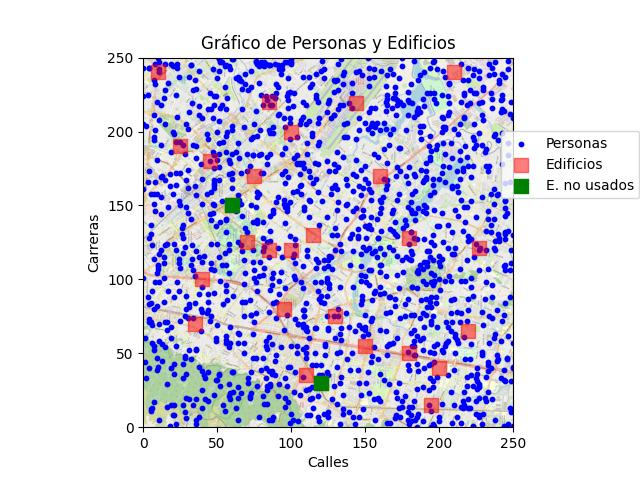
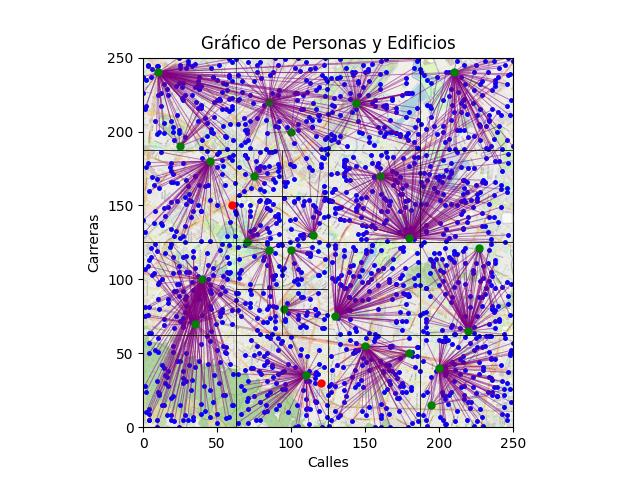
organizacion grafico

diff --git a/generacionEntrada.py b/generacionEntrada.py
@@ -1,5 +1,7 @@
 # Generación de datos para N
 import random
+from Edificio import Edificio
+from Estudiante import Estudiante
 
 
 N = 250
@@ -34,3 +36,48 @@ for i in range(K):
     opt_K = random.randint(0, 30)
     min_K = random.randint(0, 10)
     print(f"{id_K}, {id_M}, {piso_K}, {max_K}, {opt_K}, {min_K}")
+
+#en esta funcion debo hacer los datos de edificio 
+def generarEdificios():
+    #creacion de salones primero y luego de edificios
+    edificios = [
+    Edificio(id = 1,capMin=2, capOpt=15, capMax=25, numeroSalones=4, calle=130, carrera=75,pisos=2),
+    Edificio(id = 2,capMin=5, capOpt=20, capMax=35, numeroSalones=8, calle=45, carrera=180,pisos=2),
+    Edificio(id = 3,capMin=1, capOpt=12, capMax=22, numeroSalones=2, calle=85, carrera=120,pisos=2),
+    Edificio(id = 4,capMin=7, capOpt=18, capMax=37, numeroSalones=6, calle=200, carrera=40,pisos=6),
+    Edificio(id = 5,capMin=3, capOpt=25, capMax=38, numeroSalones=9, calle=150, carrera=55,pisos=2),
+    Edificio(id = 6,capMin=1, capOpt=13, capMax=33, numeroSalones=1, calle=100, carrera=200,pisos=3),
+    Edificio(id = 7,capMin=4, capOpt=22, capMax=39, numeroSalones=3, calle=70, carrera=125,pisos=2),
+    Edificio(id = 8,capMin=9, capOpt=29, capMax=32, numeroSalones=7, calle=110, carrera=35,pisos=2),
+    Edificio(id = 9,capMin=6, capOpt=21, capMax=36, numeroSalones=5, calle=220, carrera=65,pisos=1),
+    Edificio(id = 10,capMin=8, capOpt=23, capMax=31, numeroSalones=2, calle=25, carrera=190,pisos=1),
+    Edificio(id = 11,capMin=2, capOpt=14, capMax=26, numeroSalones=5, calle=75, carrera=170,pisos=4),
+    Edificio(id = 12,capMin=3, capOpt=16, capMax=34, numeroSalones=7, calle=95, carrera=80,pisos=2),
+    Edificio(id = 13,capMin=10, capOpt=11, capMax=27, numeroSalones=8, calle=120, carrera=30,pisos=1),
+    Edificio(id = 14,capMin=5, capOpt=19, capMax=38, numeroSalones=4, calle=180, carrera=50,pisos=3),
+    Edificio(id = 15,capMin=1, capOpt=17, capMax=35, numeroSalones=6, calle=40, carrera=100,pisos=2),
+    Edificio(id = 16,capMin=7, capOpt=24, capMax=39, numeroSalones=9, calle=60, carrera=150,pisos=2),
+    Edificio(id = 17,capMin=4, capOpt=20, capMax=31, numeroSalones=3, calle=85, carrera=220,pisos=2),
+    Edificio(id = 18,capMin=9, capOpt=26, capMax=32, numeroSalones=2, calle=35, carrera=70,pisos=2),
+    Edificio(id = 19,capMin=6, capOpt=18, capMax=33, numeroSalones=1, calle=195, carrera=15,pisos=1),
+    Edificio(id = 20,capMin=8, capOpt=28, capMax=36, numeroSalones=3, calle=10, carrera=240,pisos=1),
+    Edificio(id = 21,capMin=8, capOpt=28, capMax=36, numeroSalones=2, calle=210, carrera=240,pisos=1),
+    Edificio(id = 22,capMin=8, capOpt=28, capMax=36, numeroSalones=4, calle=100, carrera=120,pisos=2),
+    Edificio(id = 23,capMin=8, capOpt=28, capMax=36, numeroSalones=2, calle=115, carrera=130,pisos=3),
+    Edificio(id = 24,capMin=8, capOpt=28, capMax=36, numeroSalones=3, calle=160, carrera=170,pisos=2),
+    Edificio(id = 25,capMin=8, capOpt=28, capMax=36, numeroSalones=2, calle=227, carrera=121,pisos=4),
+    Edificio(id = 26,capMin=8, capOpt=28, capMax=36, numeroSalones=4, calle=180, carrera=128,pisos=2),
+    Edificio(id = 27,capMin=8, capOpt=28, capMax=36, numeroSalones=2, calle=144, carrera=219,pisos=2)
+    ]
+    return edificios
+
+# Generamos los datos de los estudiantes
+def generarEstudiantes(n):
+    estudiantes = []
+    for i in range(n):
+        id = random.randint(1000000000, 9999999999)
+        calle = random.randint(0, 250)
+        carrera = random.randint(0, 250)
+        estudiante = Estudiante(id, calle, carrera)
+        estudiantes.append(estudiante)
+    return estudiantes

diff --git a/main.py b/main.py
@@ -1,111 +1,25 @@
-import matplotlib.pyplot as plt
-import matplotlib.image as mpimg
-import random
 from QuadTree import Area,QuadTree
-from Estudiante import Estudiante
-from prueba import run
-from Edificio import Edificio,Salon
+from generarGrafico import generarGrafico
+from generacionEntrada import generarEdificios, generarEstudiantes
 
-personas_x = []
-personas_y = []
-# Datos de personas y edificios
-edificios_x =[]
-edificios_y =[]
-edificios_noUsados = []
-def generar_estudiantes(n):
-    estudiantes = []
-    for i in range(n):
-        id = random.randint(1000000000, 9999999999)
-        calle = random.randint(0, 250)
-        
-        #esto es para graficar su ubicacion
-        personas_x.append(calle)
-        carrera = random.randint(0, 250)
-        personas_y.append(carrera)
-        estudiante = Estudiante(id, calle, carrera)
-        estudiantes.append(estudiante)
-    return estudiantes
+# Generamos los datos de los estudiantes y edificios
+estudiantes = generarEstudiantes(1500)
+edificios = generarEdificios()
 
-nEst = 1500
-listaEstudiantes = generar_estudiantes(nEst)
-
-# for i in range(nEst):
-#    print(listaEstudiantes[i])
-
+#Creamos el mapa inicial (la raiz del arbol)
 raiz = QuadTree(Area(0,0,250,250))
 
-edificios = run()
+# Insertamos los edificios en el arbol
 for i in edificios:
     raiz.insertarEdificio(i)
 
-
-
-#asignados = []
-print(f'con mi metodo')
-for j in listaEstudiantes:
+# Insertamos los estudiantes en su edificio más cercano
+for j in estudiantes:
    raiz.insertarEstudiante(j)
 
-#raiz.no.no.imprimirEdificios()
+# Reacomodamos los estudiantes ubicados en los edificios
 raiz.acomodarDesdeHoja()
-edificios_noUsados = raiz.recorrerDesdeHoja()
+
+generarGrafico(raiz,estudiantes,edificios)
 
 
-
-
-
-#generacion del grafico para entender:
-
-for e in edificios:
-    edificios_x.append(e.calle)
-    edificios_y.append(e.carrera)
-ed_nU_x = []
-ed_nU_y = []
-for e in edificios_noUsados:
-    ed_nU_x.append(e.calle)
-    ed_nU_y.append(e.carrera)
-
-# Cargar una imagen de fondo
-img = mpimg.imread('map.png')  
-
-# Crear el gráfico con la imagen de fondo centrada
-fig, ax = plt.subplots()
-ax.imshow(img, extent=[min(personas_x + edificios_x), max(personas_x + edificios_x),
-                       min(personas_y + edificios_y), max(personas_y + edificios_y)])
-
-# Agregar elementos gráficos
-ax.scatter(personas_x, personas_y, color='blue', label='Personas', marker='o',s=10)
-ax.scatter(edificios_x, edificios_y, color='red', label='Edificios', marker='s', s=100, alpha=0.5)
-ax.scatter(ed_nU_x, ed_nU_y, color='green', label='E. no usados', marker='s', s=100)
-
-# Personalizar el gráfico
-ax.set_xlabel('Calles')
-ax.set_ylabel('Carreras')
-ax.set_title('Gráfico de Personas y Edificios')
-ax.legend(bbox_to_anchor = (0.95, 0.6))
-#plt.legend().set_visible(False)
-# Mostrar o guardar el gráfico
-plt.savefig('mapaOrganizado.jpg')
-plt.show()
-
-
-def imprimirFinal(): 
-        x = raiz
-        #Buscamos el area de 0, 0
-        while (x.dividido):
-            x = x.no
-        #Recorremos cada edificio del area
-        while (x.next != null):
-            for e in x.edificios:
-                print("EDIFICIO:"+ e.id)
-                #if (len(e.salones)<=0):
-                #    print("Edificio no utilizado")
-                #else:
-                for i in e.salones:
-                    print("   SALON: "+ i.id )
-                    for j in i.estudiantes:
-                        print("    Estudiante: "+j.id+" distancia a edificio: "+ j.distancia)
-            x = x.next
-
-imprimirFinal()
-
-#asignar 

diff --git a/generarGrafico.py b/generarGrafico.py
@@ -1,0 +1,51 @@
+import random
+import matplotlib.pyplot as plt
+import matplotlib.image as mpimg
+
+#Función para generar el gráfico de los estudiantes y edificios
+def generarGrafico(raiz, estudiantes, edificios):
+    
+    # Cargar una imagen de fondo
+    img = mpimg.imread('map.png')  
+
+    # Crear el gráfico con la imagen de fondo centrada
+    fig, ax = plt.subplots()
+    ax.imshow(img, extent=[raiz.limite.x, raiz.limite.x + (raiz.limite.x+raiz.limite.ancho),
+                        raiz.limite.y, raiz.limite.y + (raiz.limite.y+raiz.limite.alto)])
+
+    # Agregar los puntos al gráfico
+    for i in estudiantes:
+        #Imprimimos los estudiantes como puntos azules
+        ax.plot(i.calle, i.carrera, color='blue', marker='.', markersize=5)
+    for e in edificios:
+        if (len(e.listaEstudiantes)<=0):
+            #Imprimos los edificios que no se usan en rojo
+            ax.plot(e.calle, e.carrera, color='red', marker='o', markersize=5, alpha=1)
+        else:
+            #Imprimimos la linea de unión entre estudiantes con su edificio
+            for s in e.listaEstudiantes:
+                x = [e.calle, s.calle]
+                y = [e.carrera, s.carrera]
+                ax.plot(x, y, color='purple', linestyle='-', linewidth=0.7, alpha=0.5)
+            #Imprimimos los edificios que si se usarán en verde
+            ax.plot(e.calle, e.carrera, color='green', marker='o', markersize=5, alpha=1)
+    
+    # Imprimimos los limites de los cuadrantes del arbol
+    n = raiz
+    while (n.dividido):
+        n = n.no
+    while (n.next != None):
+        x = [n.limite.x, n.limite.x+n.limite.ancho,n.limite.x +n.limite.ancho,n.limite.x, n.limite.x]
+        y = [n.limite.y,n.limite.y, n.limite.y + n.limite.alto, n.limite.y + n.limite.alto, n.limite.y]
+        ax.plot(x, y, color='black', linestyle='-', linewidth=0.7, alpha=0.5)
+        n = n.next
+
+    # Personalizar el gráfico con los ejes y el título
+    ax.set_xlabel('Calles')
+    ax.set_ylabel('Carreras')
+    ax.set_title('Gráfico de Personas y Edificios')
+    ax.legend(bbox_to_anchor = (0.95, 0.6))
+
+    # Mostrar y guardar el gráfico
+    plt.savefig('mapaOrganizado.jpg')
+    plt.show()

diff --git a/QuadTree.py b/QuadTree.py
@@ -380,7 +380,6 @@ class QuadTree:
                         edificiosNoUsados.append(edificio)
                 print(f'Edificios omitidos {omitido}/{len(self.edificios)}')
                 
-                
         else:
             print("Cuadrante dividido")
 
@@ -477,17 +476,7 @@ class QuadTree:
                 for e in self.edificios:
                     if len(e.listaEstudiantes)>0:
                         self.asignarSalones(edificio=e)
-                                
-            """    
-                for e in self.edificios:
-                    print(e)
-                print('----------')   
-                
-            elif len(self.edificios)==1:
-                    print(self.edificios[0])
-                    print('--------')
-            """
-
+                            
     #funcion para acomodar a los estudiantes al minimo de edificios y meterlos en salon
     def acomodarDesdeHoja(self):
         x = self

diff --git a/formatoSalida.py b/formatoSalida.py
@@ -1,3 +1,17 @@
-from Edificio import Edificio,Salon
-
-
+def imprimirFinal(raiz,estudiantes,edificios): 
+        x = raiz
+        #Buscamos el area de 0, 0
+        while (x.dividido):
+            x = x.no
+        #Recorremos cada edificio del area
+        while (x.next != None):
+            for e in x.edificios:
+                print("EDIFICIO:"+ e.id)
+                #if (len(e.salones)<=0):
+                #    print("Edificio no utilizado")
+                #else:
+                for i in e.salones:
+                    print("   SALON: "+ i.id )
+                    for j in i.estudiantes:
+                        print("    Estudiante: "+j.id+" distancia a edificio: "+ j.distancia)
+            x = x.next

diff --git a/Edificio.py b/Edificio.py
@@ -17,6 +17,7 @@ class Edificio:
         #a = f'Edificio: {self.id},numero estudiantes: {len(self.listaEstudiantes)},\n numero salones: {self.numeroSalones}, calle: {self.calle}, carrera:{self.carrera}'
         a = f'{self.id} est: {len(self.listaEstudiantes)} min: {self.capMin}, Opt:{self.capOpt}, Max:{self.capMax}  calle: {self.calle}, carrera:{self.carrera}'
         return a 
+    
     def crearSalones(self):
         #primero tomamos los valores para cada salon
         capMin = self.numeroSalones/self.capMin 

diff --git a/formatoEntrada.py b/formatoEntrada.py
@@ -4,8 +4,6 @@ def obtenerStringArchivo(raiz_archivo):
         with open(raiz_archivo) as arhivoPlano:
             lineas = arhivoPlano.read()
             #esta funcion solo existe para no repetir tanto este codigo
-            
-
     except FileNotFoundError:
         print('al parecer has escrito mal la direccion del archivo.')
     return lineas
